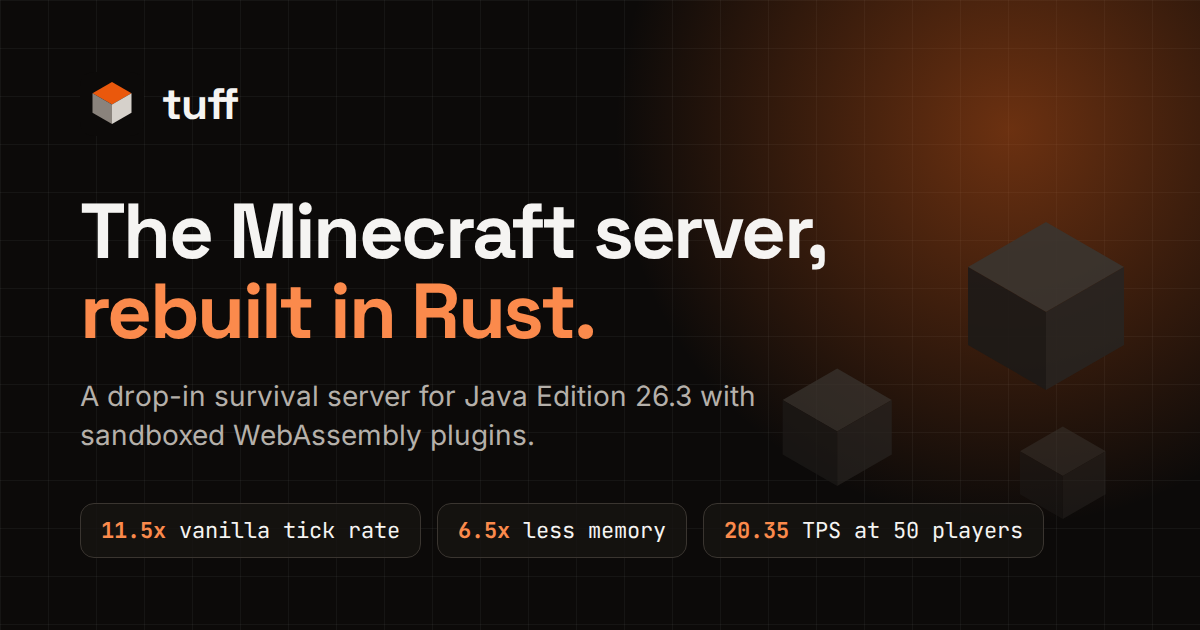
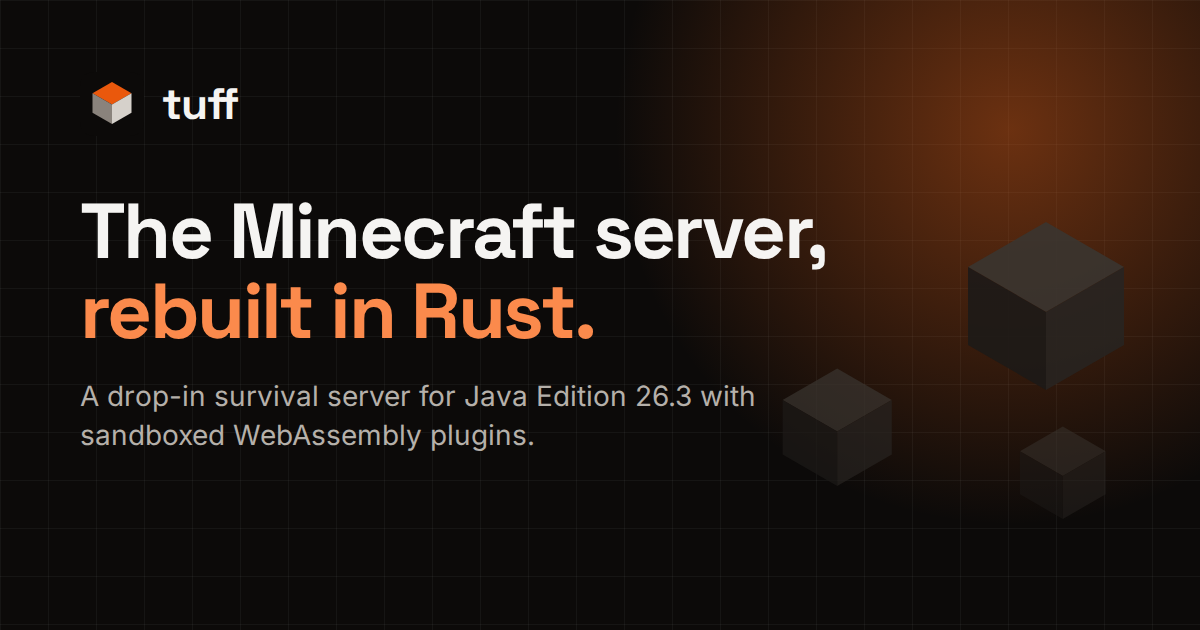
feat: hide performance claims until they are re-measured
The published village comparison ran the two servers at different simulation distances, so hide the stats strip, the performance section, the performance docs page and its nav links, the snapshot table, and the benchmark lines in the social preview and description behind SHOW_PERFORMANCE.

Changed region(s): [[0.5858, 0.8143, 0.8633, 0.8746], [0.0617, 0.8143, 0.3392, 0.8746], [0.37, 0.8143, 0.555, 0.8746]]

diff --git a/scripts/prerender.ts b/scripts/prerender.ts
@@ -1,7 +1,7 @@
 // Writes crawlable static snapshots, blog feeds, sitemap.xml and 404.html into dist/.
 import { existsSync, mkdirSync, readFileSync, readdirSync, writeFileSync } from "node:fs";
 import { join } from "node:path";
-import { DESCRIPTION, SITE_NAME, SITE_URL as SITE } from "../src/lib/site";
+import { DESCRIPTION, SHOW_PERFORMANCE, SITE_NAME, SITE_URL as SITE } from "../src/lib/site";
 import { formatDate, sameDay, type BlogIndex, type Post, type PostMeta } from "../src/lib/blog";
 
 const root = join(import.meta.dir, "..");
@@ -66,7 +66,7 @@ const home = `<main data-snapshot style="max-width:72rem;margin:0 auto;padding:4
 <h1>tuff: the Minecraft server, rebuilt in Rust</h1>
 <p>tuff is a drop-in survival server for Minecraft Java Edition 26.3. The vanilla game runs as built-in features on an inert core, and external plugins are sandboxed WebAssembly modules.</p>
 <p><a href="${SITE}docs/introduction/">Get started</a> | <a href="${SITE}blog/">Blog</a> | <a href="https://github.com/brenfwd/tuff">GitHub</a></p>
-<h2>Performance</h2>
+${SHOW_PERFORMANCE ? `<h2>Performance</h2>
 <table><thead><tr><th>Benchmark</th><th>Metric</th><th>tuff</th><th>Vanilla</th></tr></thead><tbody>
 <tr><td>Village, 10-day sprint</td><td>ticks per second</td><td>1026</td><td>89.6</td></tr>
 <tr><td>Village</td><td>p99 tick (ms)</td><td>2.13</td><td>12.9</td></tr>
@@ -75,7 +75,7 @@ const home = `<main data-snapshot style="max-width:72rem;margin:0 auto;padding:4
 <tr><td>Stress</td><td>mean tick (ms)</td><td>48.2</td><td>190</td></tr>
 <tr><td>Stress</td><td>server memory (MiB)</td><td>2514</td><td>9005</td></tr>
 </tbody></table>
-<h2>Documentation</h2>${docNav}</main>`;
+` : ""}<h2>Documentation</h2>${docNav}</main>`;
 
 writeFileSync(join(dist, "index.html"), page({ title: "tuff - a fast Minecraft server in Rust with WebAssembly plugins", description: DESCRIPTION, url: SITE, body: home }));
 writeFileSync(join(dist, "404.html"), template.replace("<!--prerender-->", ""));

diff --git a/scripts/og-image.ts b/scripts/og-image.ts
@@ -1,3 +1,4 @@
+import { SHOW_PERFORMANCE } from "../src/lib/site";
 // Renders the Open Graph image and PNG icons into public/ with headless Chromium.
 import { chromium } from "playwright-core";
 import { readFileSync } from "node:fs";
@@ -36,7 +37,7 @@ svg.cubes{position:absolute;right:40px;bottom:30px}
 <div class="wrap"><div class="brand">${favicon.replace("<svg ", '<svg width="64" height="64" ')}tuff</div>
 <h1>The Minecraft server,<br><span>rebuilt in Rust.</span></h1>
 <p>A drop-in survival server for Java Edition 26.3 with sandboxed WebAssembly plugins.</p>
-<div class="stats"><div class="stat"><b>11.5x</b> vanilla tick rate</div><div class="stat"><b>6.5x</b> less memory</div><div class="stat"><b>20.35</b> TPS at 50 players</div></div></div>
+${SHOW_PERFORMANCE ? `<div class="stats"><div class="stat"><b>11.5x</b> vanilla tick rate</div><div class="stat"><b>6.5x</b> less memory</div><div class="stat"><b>20.35</b> TPS at 50 players</div></div>` : ""}</div>
 </body></html>`;
 
 const browser = await chromium.launch();

diff --git a/src/components/Footer.tsx b/src/components/Footer.tsx
@@ -5,7 +5,7 @@ import { REPO_URL } from "../lib/site";
 export function Footer() {
   const cols = [
     { title: "Get started", links: [["/docs/introduction", "Introduction"], ["/docs/installing", "Installing"], ["/docs/running", "Running"], ["/docs/settings", "Settings"]] },
-    { title: "Build", links: [["/docs/plugins", "WebAssembly plugins"], ["/docs/features", "Built-in features"], ["/docs/data-packs", "Data packs"], ["/docs/performance", "Performance"]] },
+    { title: "Build", links: [["/docs/plugins", "WebAssembly plugins"], ["/docs/features", "Built-in features"], ["/docs/data-packs", "Data packs"]] },
     { title: "Project", links: [["/blog", "Blog"], [REPO_URL, "Source code"], [`${REPO_URL}/issues`, "Issues"], [`${REPO_URL}/blob/main/CONTRIBUTING.md`, "Contributing"], ["/docs/license", "License"]] },
   ];
   return (

diff --git a/src/pages/Home.tsx b/src/pages/Home.tsx
@@ -7,7 +7,7 @@ import { TickRace } from "../components/TickRace";
 import { ArrowRight, Check, GitHubIcon } from "../components/Icons";
 import { useParallax, useReveal } from "../lib/motion";
 import { useSeo } from "../lib/useSeo";
-import { REPO_URL } from "../lib/site";
+import { REPO_URL, SHOW_PERFORMANCE } from "../lib/site";
 
 const INSTALL = "git clone https://github.com/brenfwd/tuff.git tuff && cd tuff && scripts/install.sh";
 
@@ -383,10 +383,10 @@ export default function Home() {
   return (
     <main id="main" tabIndex={-1} className="outline-none">
       <Hero />
-      <Stats />
+      {SHOW_PERFORMANCE && <Stats />}
       <Architecture />
       <Features />
-      <Performance />
+      {SHOW_PERFORMANCE && <Performance />}
       <Plugins />
       <GetStarted />
     </main>

diff --git a/scripts/build-docs.ts b/scripts/build-docs.ts
@@ -1,3 +1,4 @@
+import { SHOW_PERFORMANCE } from "../src/lib/site";
 // Renders content/docs/*.md and content/blog/*.md into JSON modules for the app and a search index.
 import { mkdirSync, readFileSync, rmSync, writeFileSync } from "node:fs";
 import { join } from "node:path";
@@ -13,6 +14,7 @@ const repoBlob = "https://github.com/brenfwd/tuff/blob/main/";
 
 type Meta = { slug: string; title: string; group: string; description: string };
 const manifest: { pages: Meta[]; commit: string } = JSON.parse(readFileSync(join(contentDir, "manifest.json"), "utf8"));
+if (!SHOW_PERFORMANCE) manifest.pages = manifest.pages.filter((p) => p.slug !== "performance");
 
 function rewriteHref(href: string) {
   if (/^(https?:|mailto:|#)/.test(href)) return href;

diff --git a/index.html b/index.html
@@ -19,7 +19,7 @@
     <meta property="og:type" content="website" />
     <meta property="og:site_name" content="tuff" />
     <meta property="og:title" content="tuff - a fast Minecraft server in Rust with WebAssembly plugins" />
-    <meta property="og:description" content="A drop-in survival server for Minecraft Java 26.3, with sandboxed WebAssembly plugins. 11.5x the vanilla tick rate on the village benchmark." />
+    <meta property="og:description" content="A drop-in survival server for Minecraft Java 26.3, with sandboxed WebAssembly plugins." />
     <meta property="og:url" content="https://tuff.bforward.me/" />
     <meta property="og:image" content="https://tuff.bforward.me/og.png" />
     <meta property="og:image:width" content="1200" />

diff --git a/src/lib/site.ts b/src/lib/site.ts
@@ -1,6 +1,8 @@
 export const SITE_URL = "https://tuff.bforward.me/";
 export const REPO_URL = "https://github.com/brenfwd/tuff";
 export const SITE_NAME = "tuff";
+// Off until the side-by-side benchmark is re-measured with identical settings.
+export const SHOW_PERFORMANCE = false;
 export const TAGLINE = "A Minecraft Java Edition server written in Rust";
 export const DESCRIPTION =
   "tuff is a high-performance Minecraft Java Edition 26.3 server written in Rust. The vanilla game runs as built-in features on an inert core, and external plugins are sandboxed WebAssembly modules.";

diff --git a/src/components/Header.tsx b/src/components/Header.tsx
@@ -19,7 +19,6 @@ function useTheme() {
 const nav = [
   { href: "/docs/introduction", label: "Docs", match: "/docs" },
   { href: "/docs/plugins", label: "Plugins", match: "/docs/plugins" },
-  { href: "/docs/performance", label: "Performance", match: "/docs/performance" },
   { href: "/blog", label: "Blog", match: "/blog" },
 ];
 
